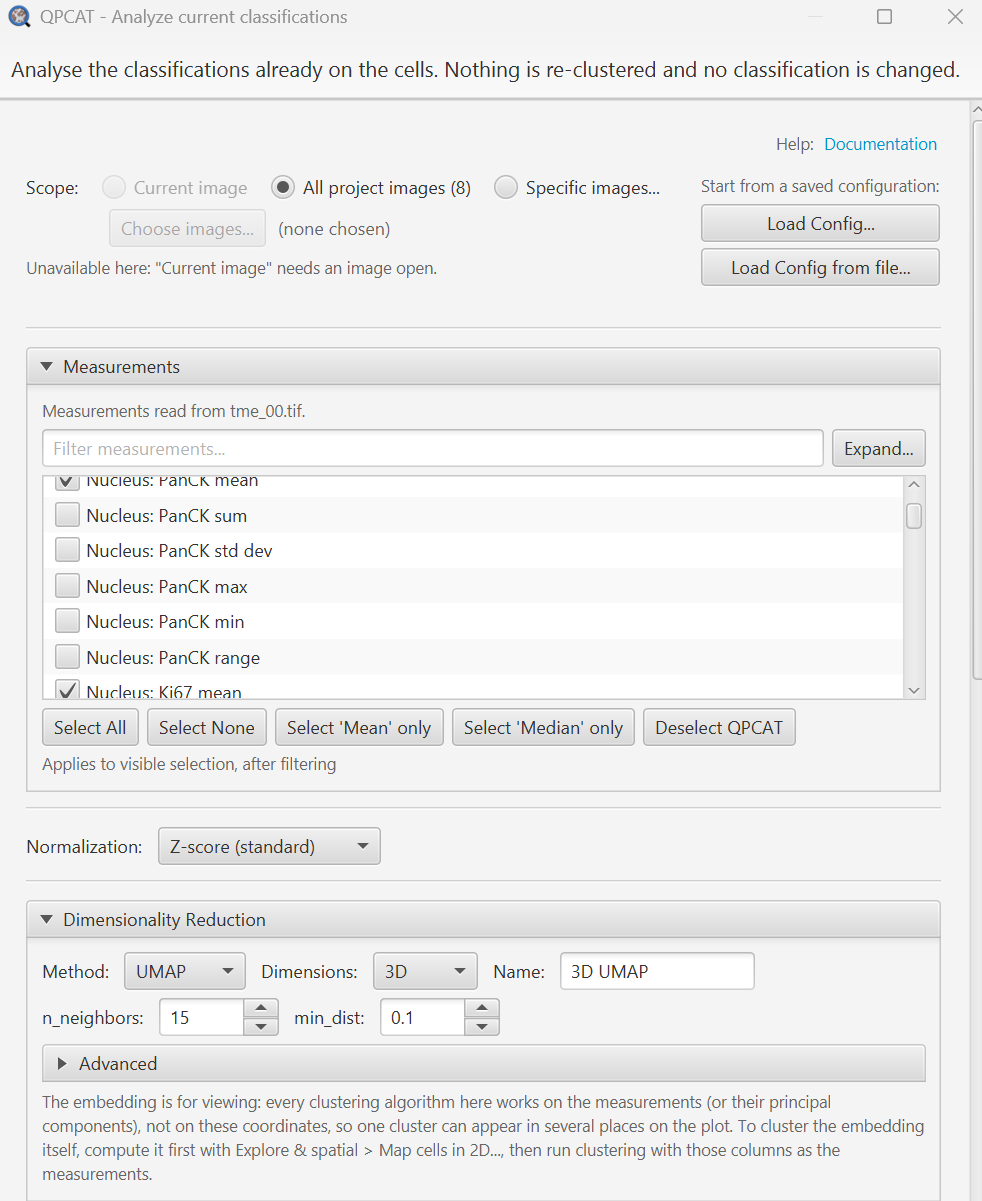
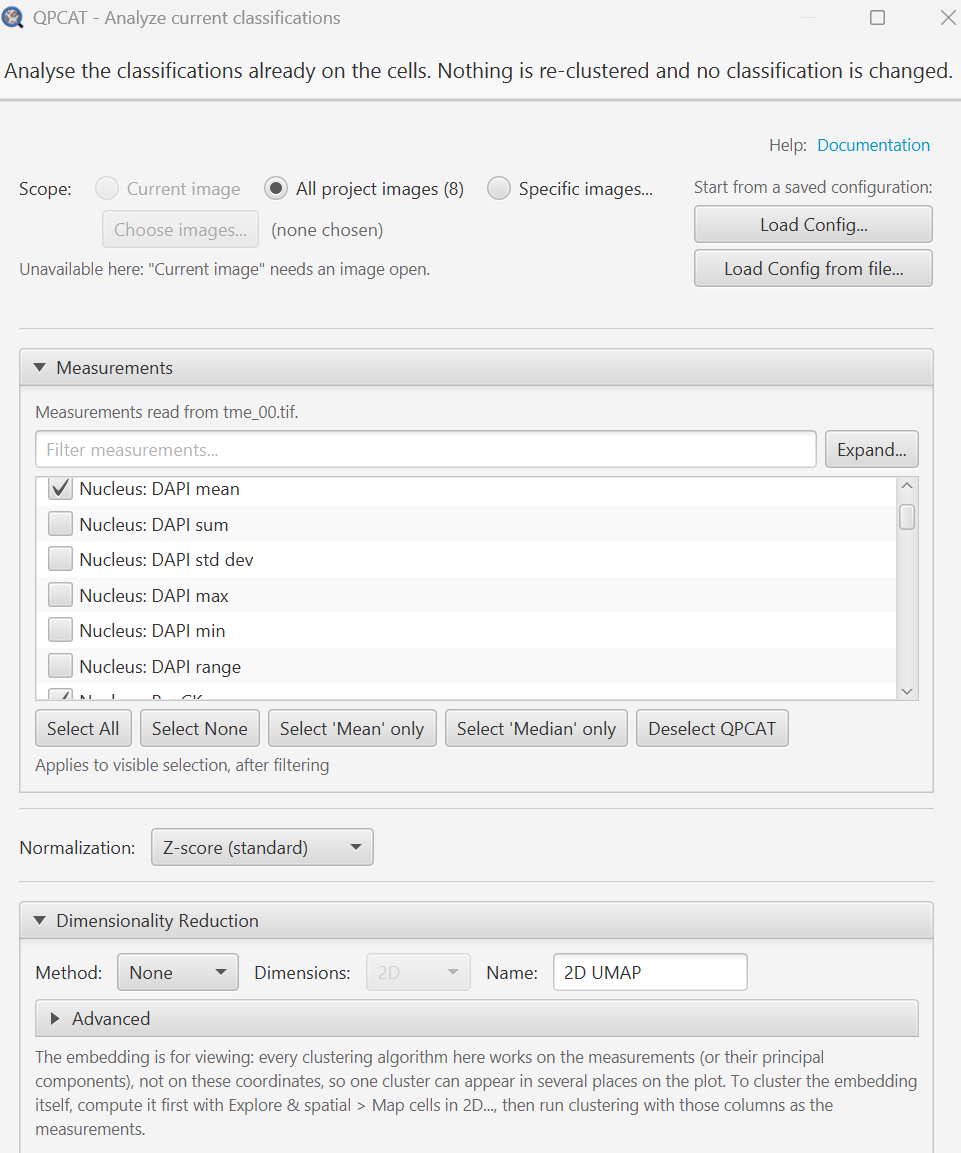
QP-CAT guide: new analyze-existing screenshot, with Method already on None
The replacement shot has Dimensionality Reduction set to None, so the caption
telling the reader it 'still needs changing' now contradicted the picture.
Reworded to say Method is on None here and why that matters (it opens on UMAP;
left there it computes a second embedding instead of using the one already on
the cells).

Alt text rewritten to the new contents: Method None with the Dimensions
dropdown greyed out, and the Mean-only measurement selection visible.

Also notes that the Classifications list is below the fold of the screenshot,
since the settings table above it names that section.

Size unchanged: 961x1153 at 430px wide is ~516px tall.

Claude-Session: https://claude.ai/code/session_01TZFXuLKiz1DgbomrTgfDTw

diff --git a/docs/03-qp-cat-cell-analysis-tools.md b/docs/03-qp-cat-cell-analysis-tools.md
@@ -469,11 +469,12 @@ removed.
 
 <div class="shots" markdown="0">
 <figure style="max-width:430px">
-<img src="../images/qp-cat/analyze-current.png" alt="The Analyze current cell classifications dialog. A banner reads: analyse the classifications already on the cells, nothing is re-clustered and no classification is changed. Below it, Scope set to All project images (8), a Measurements list with Select All, Select None, Select Mean only, Select Median only and Deselect QPCAT buttons, Normalization set to Z-score, and a Dimensionality Reduction section with Method UMAP, Dimensions 3D and the name 3D UMAP.">
-<figcaption><b>The dialog as it opens.</b> Same scope, measurement and normalization controls
-as a clustering run; the banner at the top says what is different. <b>Dimensionality
-Reduction still needs changing</b> &mdash; it defaults to UMAP, and this run wants
-<b>Method: None</b>.</figcaption>
+<img src="../images/qp-cat/analyze-current.png" alt="The Analyze current cell classifications dialog. A banner reads: analyse the classifications already on the cells, nothing is re-clustered and no classification is changed. Below it, Scope set to All project images (8); a Measurements list with Nucleus DAPI mean ticked and the other DAPI statistics unticked, above Select All, Select None, Select Mean only, Select Median only and Deselect QPCAT buttons; Normalization set to Z-score; and a Dimensionality Reduction section with Method set to None, which greys out the Dimensions dropdown.">
+<figcaption><b>The dialog, set up.</b> Scope, Measurements and Normalization behave exactly as
+in a clustering run; the banner at the top says what is different. <b>Method</b> is on
+<b>None</b> here, which is what this run wants &mdash; it opens on UMAP, and left there it
+would compute a second embedding instead of using the one already on the cells. The
+Classifications list sits below the fold of this screenshot.</figcaption>
 </figure>
 </div>
 
